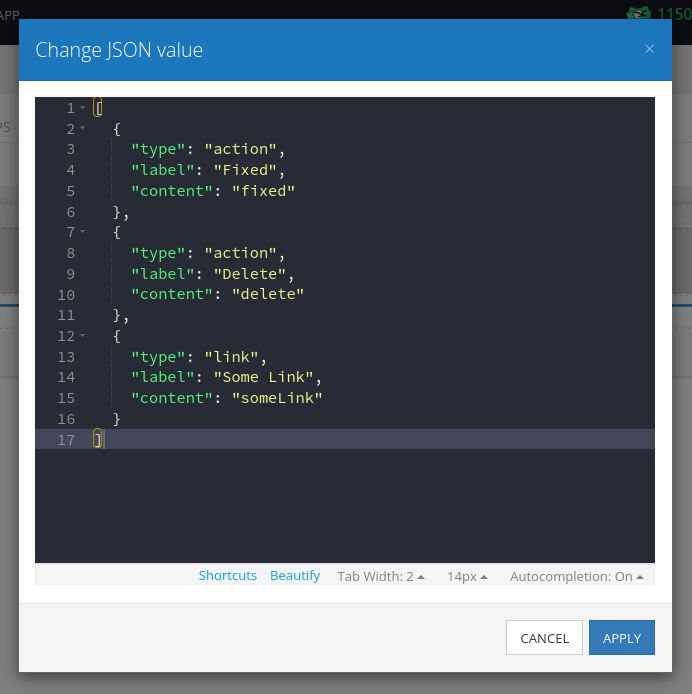
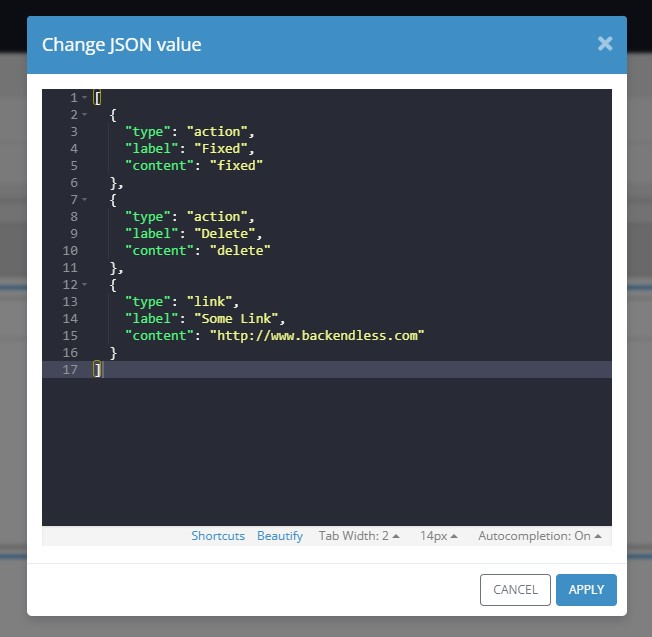
updated README.md

Changed region(s): [[0.0, 0.0, 1.0, 0.9843], [0.1534, 0.179, 0.4294, 0.3281]]

diff --git a/components/bl-dashlet/README.md b/components/bl-dashlet/README.md
@@ -92,6 +92,7 @@ The component allows you to add a dashlet to your UI-Builder application.
 
 Addition of context menu in UI Setting:
 
+![change menu items](./example-images/change-menu-items.jpg)
 ![context menu example](./example-images/context-menu-json.jpg)
 
 <details>
@@ -112,7 +113,7 @@ Addition of context menu in UI Setting:
   {
     "type": "link",
     "label": "Some Link",
-    "content": "someLink"
+    "content": "http://www.backendless.com"
   }
 ]
 ```
